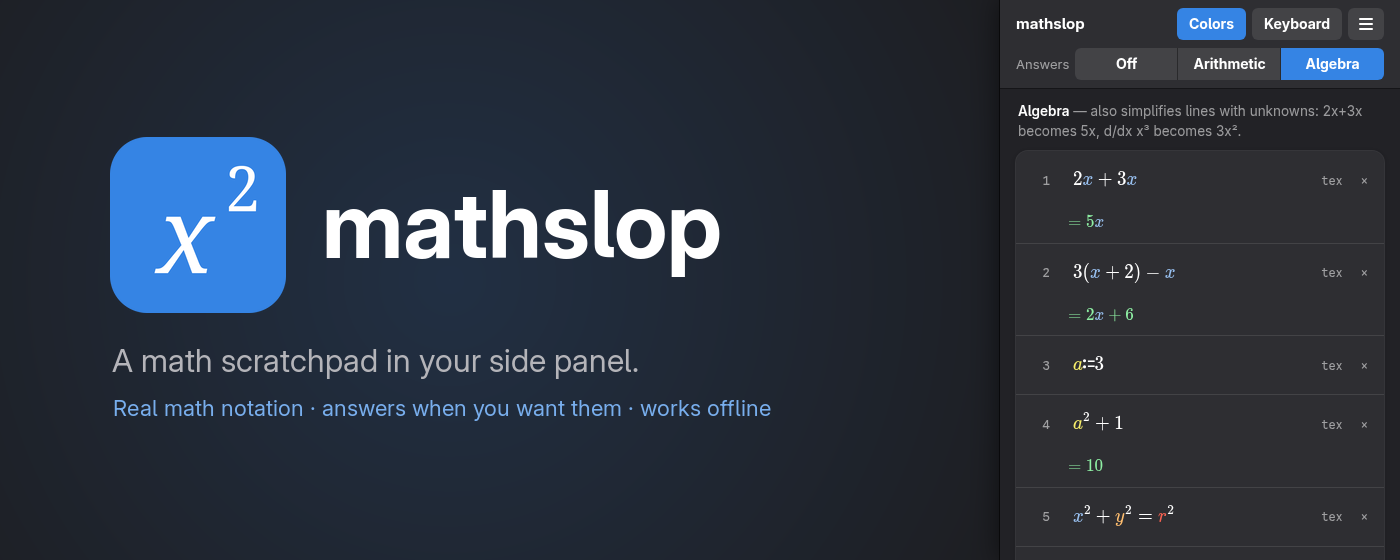
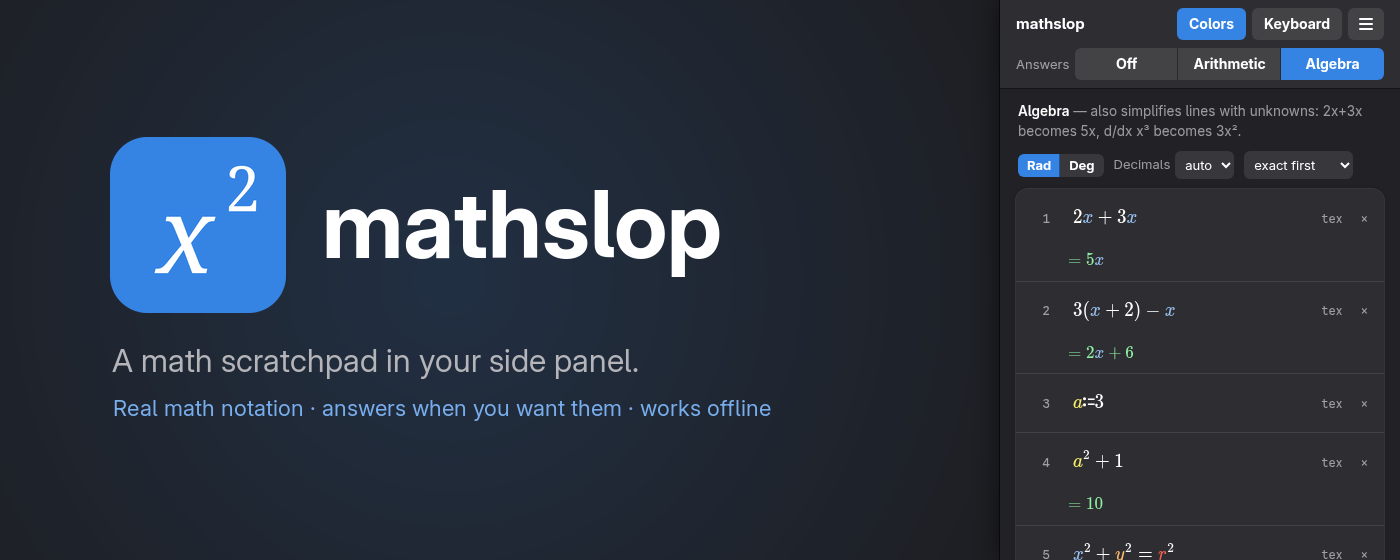
Prepare the 1.3.0 store release
- CHANGELOG.md (not shipped) with every version so far; the store
  description starts with a short "New in 1.3.0" block, since the
  dashboard has no release-notes field.
- Store listing: new features, storage justification, test steps
  (now also expect f(3) = 10), library versions, and a per-release
  checklist that includes re-pasting the dashboard URLs, which still
  name the old GitHub account from the 1.2.0 submission.
- PRIVACY.md: the new saved settings; copying an answer is Shift+click.
- Screenshots 2 and 5 and the marquee tile show the 1.3.0 panel.
- Tab is no longer intercepted at the end of a line, so it reaches the
  line's answer and buttons in page order (arrows still move between
  lines), as the guide says.

diff --git a/panel.js b/panel.js
@@ -173,7 +173,9 @@
 
     mf.addEventListener('input', () => { hist.typed(row); schedule(); });
     watch(mf);
+    let tabbing = false;   // move-out from Tab: let focus go on in page order (answer, tex, ×, next line)
     mf.addEventListener('keydown', e => {
+      tabbing = e.key === 'Tab';
       if (e.key === 'Enter' && !e.shiftKey && !e.altKey && mf.mode !== 'latex') {
         e.preventDefault(); e.stopPropagation();
         hist.change(() => focusIn(insertAfter(row)));
@@ -185,6 +187,7 @@
       }
     }, { capture: true });
     mf.addEventListener('move-out', e => {
+      if (tabbing) return;
       const d = e.detail.direction;
       const tgt = (d === 'upward' || d === 'backward') ? row.previousElementSibling : row.nextElementSibling;
       if (tgt && tgt.classList.contains('row')) {

diff --git a/store/listing.md b/store/listing.md
@@ -3,6 +3,22 @@
 Everything to paste into the Chrome Web Store developer dashboard, tab by tab. Name and summary come
 from manifest.json and can't be edited in the dashboard; change them there and re-upload.
 
+## For each release
+
+1. Bump `version` in manifest.json and add the release to CHANGELOG.md.
+2. Update the "New in …" block at the top of the description below (the dashboard has no release-notes
+   field, so this is where store users see what changed). Keep only the latest release there.
+3. Re-read the rest of this file against the code: description, permission justifications, test
+   instructions (re-count: max 500 characters), and the library versions in the reviewer reply.
+4. Put the upload date on the CHANGELOG.md entry, keep PRIVACY.md true, and merge the release to `main`
+   before you submit it for review: the privacy policy URL points at PRIVACY.md on `main`.
+5. Run `scripts/package.sh` and upload `dist/mathslop-<version>.zip` (Package tab). Paste every field below
+   that changed since the last upload (`git diff <last release tag> -- store/listing.md`), replace changed
+   screenshots, then submit for review.
+
+For 1.3.0, also re-paste the Homepage URL, Support URL and Privacy policy URL: 1.2.0 was submitted with
+links to the old account name (girlpocalypse), and those dashboard fields don't come from the package.
+
 ## Package (Build → Package)
 
 Build it with `scripts/package.sh` (runnable from any directory). It writes `dist/mathslop-<version>.zip`
@@ -13,8 +29,8 @@ manifest.json  background.js  panel.html  panel.js  panel.css  sandbox.html  san
 icons/  vendor/  LICENSE  LICENSE-MIT  LICENSE-WTFPL  COPYING
 ```
 
-It leaves out `.git/`, `docs/`, `store/`, `scripts/`, `dist/`, `CLAUDE.md`, `README.md` and `PRIVACY.md` (none of
-them are loaded by the extension). Rebuild after every manifest or code change. Every upload needs a higher
+It leaves out `.git/`, `docs/`, `store/`, `scripts/`, `dist/`, `CLAUDE.md`, `CHANGELOG.md`, `README.md` and
+`PRIVACY.md` (none of them are loaded by the extension). Rebuild after every manifest or code change. Every upload needs a higher
 `version` than the last one.
 
 ## Store listing tab
@@ -36,6 +52,15 @@ A multiline math scratchpad in the side panel. Optional live answers, works offl
 ```
 mathslop is a scratchpad for writing math in Chrome's side panel, next to whatever you're working from: an online lesson, a PDF, a homework page. Type expressions the way they look on paper, one per line, instead of drawing with a mouse or writing x^2/(3+y) in plain text.
 
+New in 1.3.0:
+- Click an answer to put it into the line you're working on, or type ans for the answer of the line above.
+- Define functions: f(x) := x² + 1, then f(3).
+- Answer options: degrees or radians, decimal places, and exact or decimal first.
+- Copy the whole pad as plain text as well as LaTeX, with or without the answers.
+- Ctrl+Z undoes anything on the pad, including deleted lines.
+- With answers on, lines with a typo are marked "can't read", and a line that takes too long is skipped instead of holding up the others.
+- Updated math libraries.
+
 Features:
 
 - A multiline editor built on MathLive. Type / for a fraction, ^ and _ for superscripts and subscripts, and names like sqrt, pi or sin turn into symbols. A backslash starts a LaTeX command (\alpha, \int).
@@ -45,10 +70,13 @@ Features:
     Arithmetic: answers lines with no unknowns, like 1/3 + 1/6 or the integral of sin x from 0 to π. Letters you give a value with := (a := 3) count as known on the lines below.
     Algebra: also simplifies lines with unknowns, so 2x + 3x becomes 5x and d/dx x³ becomes 3x².
   Turning answers on asks first, and suggests keeping them off while you're still learning the material.
-- Answers show the exact result and, where it helps, a decimal: = when the decimal is exact (1/2 = 0.5), ≈ when it's rounded (√2, π). Click an answer to copy it.
+- Answers show the exact result and, where it helps, a decimal: = when the decimal is exact (1/2 = 0.5), ≈ when it's rounded (√2, π). Choose degrees or radians, how many decimal places, and whether the exact form or the decimal comes first.
+- Reuse answers: click an answer to put it into the line you're editing (Shift+click copies it), or type ans for the answer of the nearest line above.
+- Functions: define one with := (f(x) := x² + 1) and use it on the lines below (f(3)).
+- Lines the math engine can't read are marked, so a typo doesn't look like "no answer here".
 - Colors: give each letter its own color, the same on every line and in the answers, so you can follow a variable through your working.
-- Copy one line or the whole pad as LaTeX, and import LaTeX to replace or add to the pad.
-- Keyboard shortcuts: Enter for a new line, arrow keys to move between lines, Backspace on an empty line to delete it, Esc twice to clear the pad (with Undo). Ctrl+/ shows the full list.
+- Copy one line or the whole pad as LaTeX, or the whole pad as plain text, with or without answers. Import LaTeX to replace or add to the pad.
+- Keyboard shortcuts: Enter for a new line, arrow keys to move between lines, Backspace on an empty line to delete it, Ctrl+Z to undo anything on the pad, Esc twice to clear it. Ctrl+/ shows the full list.
 - The pad saves itself and is still there next time you open the panel.
 
 Privacy: everything stays on your device. The pad is kept in Chrome's local extension storage, nothing is synced or sent anywhere, and there are no accounts, ads or analytics. The extension has no network access at all, so it also works offline.
@@ -56,7 +84,7 @@ Privacy: everything stays on your device. The pad is kept in Chrome's local exte
 Good to know:
 - Click the toolbar icon to open the side panel (pin it from the puzzle-piece menu first).
 - Answers work out and simplify expressions, but they don't solve equations: a line like x^2 - 4 = 0 gets no answer.
-- Answers come from the Compute Engine library. Angles are in radians, and some lines just won't get an answer. Check anything that matters.
+- Answers come from the Compute Engine library. Angles are in radians unless you switch to Deg, and some lines just won't get an answer. Check anything that matters.
 - Dark theme only.
 
 Free and open source (MIT or WTFPL): https://github.com/mollymillions2035/mathslop
@@ -106,7 +134,7 @@ The extension's only UI is a side panel page (panel.html). sidePanel registers i
 storage:
 
 ```
-Saves the user's pad (the lines of math they typed), the Answers mode and the Colors setting with chrome.storage.local, so the pad is still there the next time the panel opens. Stored only on the device; nothing is synced or sent anywhere.
+Saves the user's pad (the lines of math they typed) and its settings (Answers mode, Colors, angle unit, decimal places, answer order and the Copy all format) with chrome.storage.local, so the pad is still there the next time the panel opens. Stored only on the device; nothing is synced or sent anywhere.
 ```
 
 There are no host permissions, so no host permission justification.
@@ -134,12 +162,12 @@ Free, Public, all regions.
 
 ## Test instructions tab
 
-Max 500 characters (this is 457). Re-count after any edit.
+Max 500 characters (this is 461). Re-count after any edit.
 
 ```
 No account needed.
 1. Click the mathslop toolbar icon (pin it from the puzzle menu). The side panel opens with sample lines.
-2. Click Arithmetic, then Enable answers. Expect 5, 2, 5050, 1/2 = 0.5 and 0.
+2. Click Arithmetic, then Enable answers. Expect 5, 2, 5050, 1/2 = 0.5, 0 and 10.
 3. Click Algebra: d/dx x^3 shows 3x^2.
 
 The engine runs in sandbox.html (manifest "sandbox") because Compute Engine uses new Function. It has no chrome.* APIs and its CSP blocks all network. Both libraries are unmodified npm builds; nothing remote loads.
@@ -152,7 +180,7 @@ Longer explanation to paste into a reply or appeal (doesn't fit in the test inst
 ```
 About the sandbox page: the math engine (Compute Engine) uses new Function for compiling expressions, which the extension page CSP forbids. So it runs in sandbox.html, declared under "sandbox" in the manifest, inside a hidden iframe in the panel. It has no chrome.* APIs, and its CSP is "sandbox allow-scripts; default-src 'none'; script-src 'self' 'unsafe-eval'; base-uri 'none'; form-action 'none'", so it can only run its two packaged scripts and can't make network requests. It only receives the pad's LaTeX strings via postMessage and sends back results. This is the pattern from https://developer.chrome.com/docs/extensions/how-to/security/sandboxing-eval
 
-Vendored libraries: vendor/mathlive/mathlive.min.js (MathLive 0.110.0) and vendor/compute-engine/compute-engine.min.js (@cortex-js/compute-engine 0.133.0) are the unmodified minified builds from npm. All code is in the package; nothing is fetched and no fetched string is evaluated. The panel's own CSP also sets connect-src 'none'.
+Vendored libraries: vendor/mathlive/mathlive.min.js (MathLive 0.111.1) and vendor/compute-engine/compute-engine.min.js (@cortex-js/compute-engine 0.161.0) are the unmodified minified builds from npm. All code is in the package; nothing is fetched and no fetched string is evaluated. The panel's own CSP also sets connect-src 'none'.
 
-URL strings you may see in them: Compute Engine contains a fetch to oeis.org inside its ce.lookupOEIS() method (an integer-sequence lookup). sandbox.js never calls it, and the sandbox CSP would block it anyway. MathLive mentions esm.run only in console error text. Neither library loads anything remote here.
+URL strings you may see in them: Compute Engine has a fetch to oeis.org in a helper used only by its integer-sequence lookup methods (lookupOEIS and related). sandbox.js calls none of them, and the sandbox CSP would block it anyway. MathLive mentions esm.run and the aws-sdk npm page only in console error text; its optional Amazon Polly speech needs an AWS SDK that isn't loaded. Neither library loads anything remote here.
 ```

diff --git a/CLAUDE.md b/CLAUDE.md
@@ -39,6 +39,7 @@ vendor/mathlive/                      MathLive + its fonts/static CSS, loaded on
 background.js                         makes the toolbar icon open the side panel
 docs/screenshot.png                   used only by README.md; the extension never loads it
 store/ PRIVACY.md scripts/            Chrome Web Store listing, assets and packaging; not shipped (see "Publishing")
+CHANGELOG.md                          what changed in each version; not shipped
 ```
 
 **The rule:** anything that uses `eval`, `new Function`, or a library that does, goes in the sandbox.
@@ -148,7 +149,8 @@ To add a new engine feature (e.g. plotting): add a new message `type` in sandbox
   Implemented by a MutationObserver on each math-field's (open) shadow root, recoloring `.ML__mathit`.
 - **Shortcuts:** Enter new line · ↑/↓ and ←/→ at edges move between lines · Backspace on empty line deletes
   it · Esc Esc clears the pad (with Undo toast) · Ctrl+Z / Ctrl+Shift+Z / Ctrl+Y undo and redo across the
-  pad · Ctrl+/ opens the shortcut guide. `?` must stay typeable (it's a normal character in math), which is
+  pad · Ctrl+/ opens the shortcut guide. Tab is not intercepted: at the end of a line it goes on in page order
+  (the line's answer, tex, ×, then the next line), so answers are reachable from the keyboard. `?` must stay typeable (it's a normal character in math), which is
   why the guide is on Ctrl+/.
 - **No read-aloud.** MathLive's Ctrl+Alt+↑/↓ `speak` keybindings are removed in `makeRow`: they send the line
   to Chrome TTS, which may be an online voice, breaking "nothing leaves the device" in PRIVACY.md. People
@@ -179,8 +181,14 @@ To add a new engine feature (e.g. plotting): add a new message `type` in sandbox
   referenced from manifest.json, an HTML page or a CSS file (references from JS aren't checked); files under
   `icons/` and `vendor/` are picked up automatically.
 - `store/listing.md` has every dashboard field (description, permission justifications, privacy answers,
-  reviewer test instructions); `store/*.png` are the screenshots and promo tiles. Keep them in step with
-  features, and keep `PRIVACY.md` true: its URL on GitHub `main` is the listing's privacy policy.
+  reviewer test instructions) and a "For each release" checklist; `store/*.png` are the screenshots and promo
+  tiles. Keep them in step with features, and keep `PRIVACY.md` true: its URL on GitHub `main` is the
+  listing's privacy policy.
+- Every release gets a CHANGELOG.md entry. The dashboard has no release-notes field, so the latest entry is
+  also summarized in the "New in …" block at the top of the store description.
+- The screenshots and the marquee tile are a marketing half on the left plus a real capture of the panel
+  (400 px wide, at x = 880 in the 1280×800 screenshots and x = 1000 in the 1400×560 marquee). To refresh one
+  after a UI change, capture the panel at that size and paste it over the right part, keeping the left part.
 - Permissions are only `sidePanel` and `storage`. `clipboardWrite` was dropped in 1.2.0: extension pages can
   write the clipboard from a click without it (tested), and it added an install warning. Adding a permission
   that shows an install warning makes Chrome disable the extension until users re-approve, so don't add one

diff --git a/CHANGELOG.md b/CHANGELOG.md
@@ -1,0 +1,60 @@
+# Changelog
+
+What changed in each version of mathslop. Version numbers follow semver (see "Versioning" in CLAUDE.md).
+The Chrome Web Store has no release-notes field, so the latest entry is also summarized at the top of the
+store description (store/listing.md).
+
+## 1.3.0 (2026-10-23)
+
+### New
+
+- **Reuse answers.** Click an answer to put it into the line you were editing, at the cursor, in brackets
+  when it needs them (2·(x+1), not 2·x+1). Shift+click copies it. From the keyboard, Tab goes from a line to
+  its answer, and Enter uses it.
+- **`ans`**: type `ans` for the answer of the nearest line above.
+- **User functions.** `f(x) := x² + 1`, then `f(3)` = 10 (and `f(a+1)` in Algebra). The sample pad shows it.
+- **Answer options**, shown when answers are on: degrees or radians, decimal places (auto, 0–6, 8 or 10), and
+  exact or decimal first. Rounding is exact (1/8 ≈ 0.13); values too small or too big for the places get
+  scientific notation.
+- **Copy all…** in the ☰ menu: copy the pad as LaTeX or plain text, with or without answers.
+- **Undo for the whole pad.** Ctrl+Z steps back through typing, new and deleted lines, clearing and import,
+  in order, whichever line has the focus (Ctrl+Shift+Z or Ctrl+Y redoes). The on-screen keyboard's undo
+  buttons do the same. Deleting a line with × shows an Undo toast.
+- **Markers** (with answers on): "can't read" on lines with a typo or an empty box, and "took too long" on a
+  line that was skipped after 1.5 s.
+
+### Changed
+
+- Clicking an answer inserts it instead of copying it; copying is Shift+click.
+- Copied LaTeX writes e and i as plain `e` and `i`, so it works in other LaTeX tools.
+- Each line is labeled "Line N" for screen readers, and Tab moves through the page in order (a line, its
+  answer, its tex and × buttons, the next line) instead of jumping from line to line; ↑/↓ and ←/→ at the
+  edges still do that.
+- MathLive 0.110.0 → 0.111.1 (fixes XSS and CSS-injection bugs with crafted LaTeX), Compute Engine 0.133.0 →
+  0.161.0.
+
+### Fixed
+
+- A heavy line (a huge sum or factorial) no longer stops every answer below it. The engine stops a slow line
+  itself, and the panel restarts the engine if it stops responding for 3 s.
+- Very large or very small answers are shown in scientific notation instead of as thousands of digits.
+
+## 1.2.0 (2026-10-19)
+
+First version submitted to the Chrome Web Store.
+
+- Dropped the `clipboardWrite` permission (copying works without it), so installing shows no warning.
+- Removed MathLive's read-aloud shortcuts, which could send a line to an online voice.
+- Store listing, privacy policy, icons and screenshots.
+
+## 1.1.0 (2026-09-23)
+
+- Answers default to Off. Turning them on asks first and suggests keeping them off while you're learning.
+- No network access: the side panel's and the math engine frame's Content Security Policies block all
+  connections, remote images and frames.
+
+## 1.0.0 (2026-09-23)
+
+- A multiline math pad in Chrome's side panel, built on MathLive, with an on-screen math keyboard.
+- Answers from Compute Engine in Arithmetic or Algebra mode, with `:=` assignments.
+- A color per letter, copy and import as LaTeX, and keyboard shortcuts.

diff --git a/PRIVACY.md b/PRIVACY.md
@@ -1,13 +1,15 @@
 # mathslop privacy policy
 
-Last updated: 2026-10-19
+Last updated: 2026-10-23
 
 mathslop is a math scratchpad that runs in Chrome's side panel. It doesn't collect, send or share any
 data.
 
 ## What it stores
 
-- The lines on your pad, the Answers setting (Off / Arithmetic / Algebra) and the Colors setting.
+- The lines on your pad, the Answers setting (Off / Arithmetic / Algebra), the Colors setting, the answer
+  options (degrees or radians, decimal places, exact or decimal first) and your choices in Copy all… (LaTeX
+  or plain text, with or without answers).
 - These are saved with `chrome.storage.local`, which keeps them in your Chrome profile on your own device.
   They are not synced to your Google account and not sent anywhere.
 - Clearing the pad deletes the saved lines. Removing the extension deletes everything it saved.
@@ -19,8 +21,9 @@ data.
   extension, and nothing is loaded from the internet. The extension's Content Security Policy also blocks
   connections (`connect-src 'none'` on the panel, `default-src 'none'` on the math engine frame).
 - It doesn't read web pages, tabs or your browsing history, and has no host permissions.
-- It writes to your clipboard only when you copy something (a line's tex button, clicking an answer, Copy all
-  as LaTeX, a line's right-click menu, or Ctrl+C / Ctrl+X). It reads the clipboard only when you paste.
+- It writes to your clipboard only when you copy something: for example a line's tex button, Shift+clicking
+  an answer, Copy all as LaTeX, Copy all…, a line's right-click menu, or Ctrl+C / Ctrl+X. It reads the
+  clipboard only when you paste.
 
 Nothing is sold or given to anyone, because nothing leaves your device.
 
